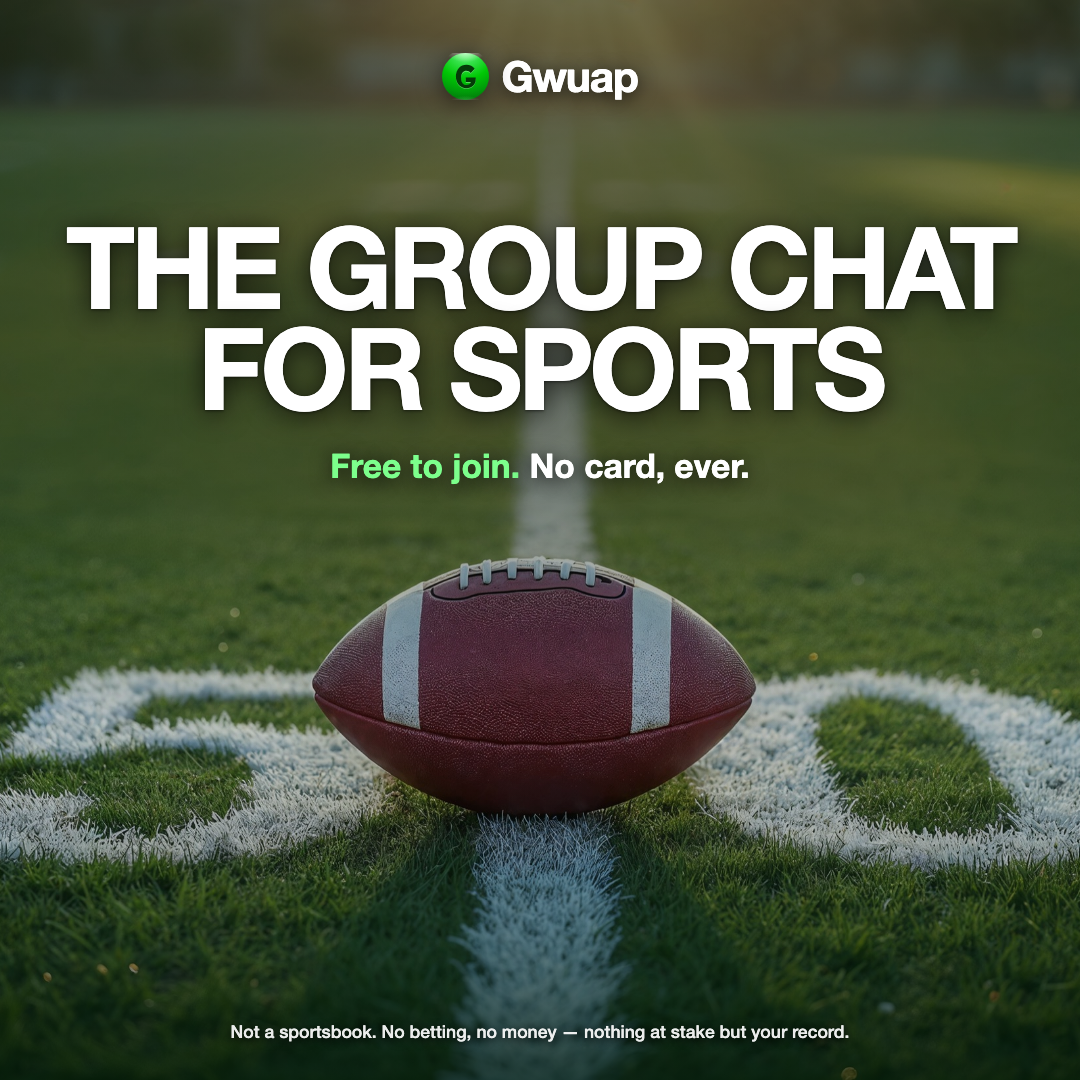
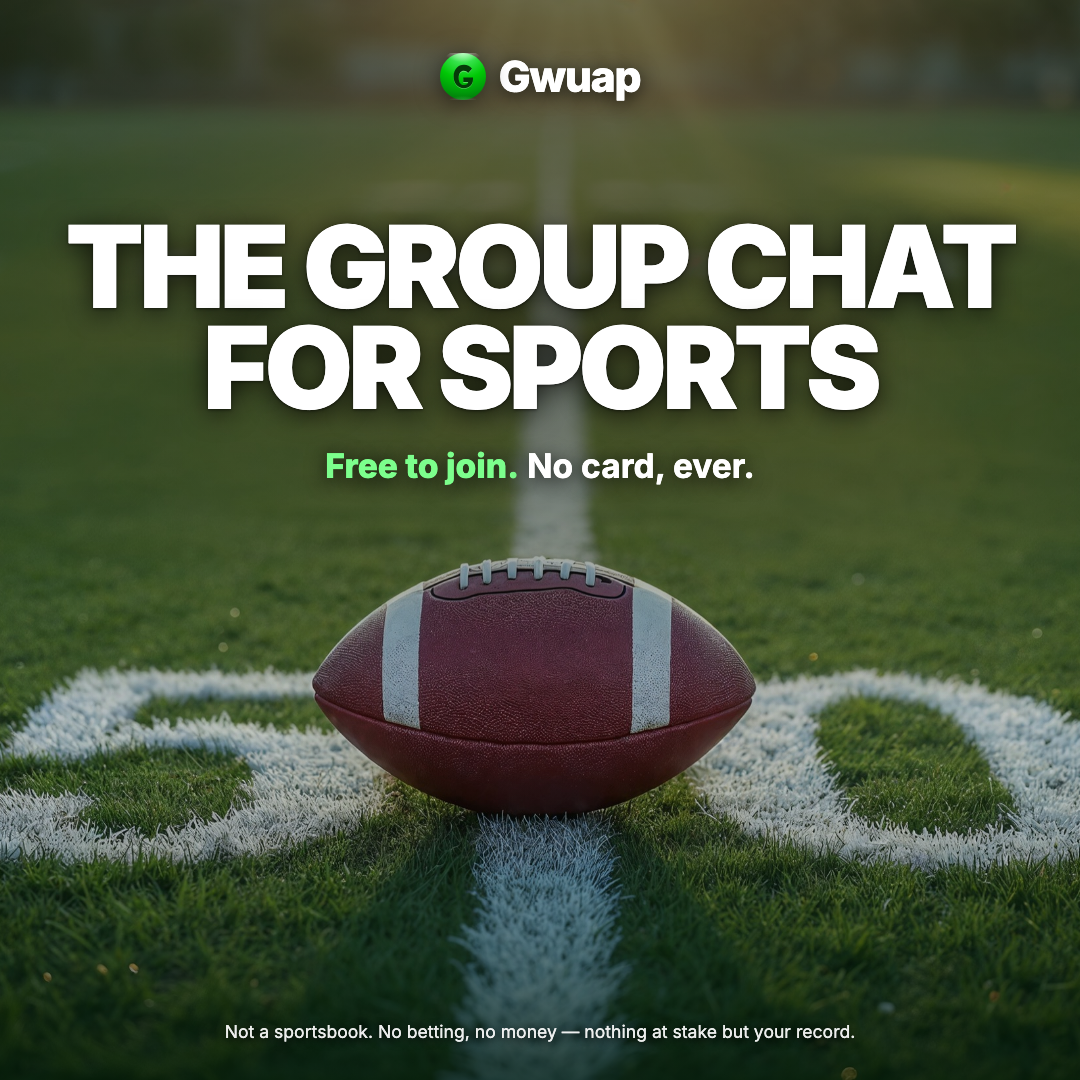
Make a creative that says what the button says
gw-newwave-square/wide: JOIN THE NEW WAVE over "the social media site
for sports fans" — the landing page's button and h1, in that order. The
running ad still said BUILD YOUR SQUAD, which is the exact ask the page
was rebuilt to stop making, so the click was being wasted twice: once on
the mismatch and once because the page no longer delivers it.

The founding line is deliberately fixed rather than live. The page
renders "192 of 200 founding places left" and counts down on its own;
the image says "First 200 accounts keep the founding badge", which is
true today and true at account 199. A number baked into a static image
is wrong the moment somebody signs up.

make.py now takes an optional note line per variant, so the same slot is
there for whatever the next one needs.

Not uploaded yet — and it should go in as a second ad rather than an
edit, so the approved one keeps running through review. Better still
after the widened targeting has had a few days, or the two changes land
together and neither is readable.

Claude-Session: https://claude.ai/code/session_01NdCCLMbPGMkRizCq46GUey

diff --git a/ads/field.tmpl.html b/ads/field.tmpl.html
@@ -41,6 +41,14 @@
     text-shadow:0 3px 20px rgba(0,0,0,.8); }
   .sub b { color:#7CFF8C; font-weight:800; }
 
+  /* The honest urgency line. A fixed fact — "the first 200" — and never
+     a live countdown, because a number baked into a static image goes
+     stale the moment somebody signs up, and a stale number in a paid ad
+     is exactly the overstatement this site doesn't do. */
+  .note { margin-top:calc(20px * {{SCALE}}); text-align:center; color:#DFF6E3;
+    font-size:calc(26px * {{SCALE}}); font-weight:600;
+    text-shadow:0 2px 14px rgba(0,0,0,.8); }
+
   .foot { position:absolute; left:0; right:0; bottom:calc(44px * {{SCALE}}); text-align:center;
     color:rgba(255,255,255,.92); font-size:calc(22px * {{SCALE}}); font-weight:500;
     line-height:1.45; text-shadow:0 2px 10px rgba(0,0,0,.9); padding:0 70px; }
@@ -53,6 +61,7 @@
   <div class="wrap">
     <div class="chalk">{{HEAD}}</div>
     <div class="sub">{{SUB}}</div>
+    {{NOTE}}
   </div>
   <div class="foot">
     Not a sportsbook. No betting, no money — nothing at stake but your record.

diff --git a/ads/make.py b/ads/make.py
@@ -14,27 +14,36 @@ HERE = pathlib.Path(__file__).parent
 TEMPLATE = (HERE / "field.tmpl.html").read_text()
 
 SUB = "<b>Free to join.</b> No card, ever."
+NOTE_FOUNDING = ('<div class="note">First <b>200</b> accounts keep the founding badge</div>')
 
 # Phase 2 — a basketball court, a rink, a pitch — is one row each, paired
 # with its own sport's ad group. Shipping football alone first is a budget
 # decision, not a design one: see CAMPAIGN-sports-social-sep.md.
 VARIANTS = [
-    # name, photo, w, h, headline, sub, scale, object-position, headline top
+    # name, photo, w, h, headline, sub, scale, object-position, headline top, note
     ("gw-field-square", "field.jpg", 1080, 1080, ["Build", "your squad"],
-     SUB, 1.00, "50% 58%", "20%"),
+     SUB, 1.00, "50% 58%", "20%", ""),
     ("gw-field-wide", "field.jpg", 1200, 628, ["Build your squad"],
-     SUB, 0.66, "50% 46%", "26%"),
+     SUB, 0.66, "50% 46%", "26%", ""),
     ("gw-meet-square", "field.jpg", 1080, 1080, ["The group chat", "for sports"],
-     SUB, 0.80, "50% 58%", "20%"),
+     SUB, 0.80, "50% 58%", "20%", ""),
+
+    # Matches the rebuilt landing page word for word: same headline as the
+    # button, same category line as the h1. Somebody clicking "join the new
+    # wave" should land on a page that says it back to them.
+    ("gw-newwave-square", "field.jpg", 1080, 1080, ["Join the", "new wave"],
+     "The social media site for sports fans", 1.00, "50% 58%", "18%", NOTE_FOUNDING),
+    ("gw-newwave-wide", "field.jpg", 1200, 628, ["Join the new wave"],
+     "The social media site for sports fans", 0.66, "50% 46%", "22%", NOTE_FOUNDING),
 ]
 
-for name, photo, w, h, lines, sub, scale, pos, top in VARIANTS:
+for name, photo, w, h, lines, sub, scale, pos, top, note in VARIANTS:
     html = (TEMPLATE
             .replace("{{W}}", str(w)).replace("{{H}}", str(h))
             .replace("{{SCALE}}", str(scale)).replace("{{POS}}", pos).replace("{{PHOTO}}", photo)
             .replace("{{TOP}}", top)
             .replace("{{HEAD}}", "".join(f"<em>{l}</em>" for l in lines))
-            .replace("{{SUB}}", sub))
+            .replace("{{SUB}}", sub).replace("{{NOTE}}", note))
     src = HERE / f".{name}.html"
     src.write_text(html)
     subprocess.run([CHROME, "--headless", "--disable-gpu", "--hide-scrollbars",

diff --git a/ads/CAMPAIGN-sports-social-sep.md b/ads/CAMPAIGN-sports-social-sep.md
@@ -4,9 +4,29 @@
 
 | File | Size | Where it runs |
 |---|---|---|
-| `gw-field-square.png` | 1080×1080 | primary — mobile feed |
-| `gw-field-wide.png` | 1200×628 | desktop feed |
-| `gw-meet-square.png` | 1080×1080 | second headline, same ad group, for a read on which line pulls |
+| **`gw-newwave-square.png`** | 1080×1080 | **current — matches the rebuilt landing page** |
+| **`gw-newwave-wide.png`** | 1200×628 | desktop |
+| `gw-field-square.png` | 1080×1080 | the running ad as of 13 Sep; superseded by the above |
+| `gw-field-wide.png` | 1200×628 | desktop version of the same |
+| `gw-meet-square.png` | 1080×1080 | "the group chat for sports"; unused |
+
+### Message match: the creative says what the button says
+
+The landing page was rebuilt twice on 13 Sep and now leads with
+**"Gwuap — the social media website for sports fans"** and a button
+reading **"Join the new wave"**. The running creative still said BUILD
+YOUR SQUAD, which is the ask the page was rebuilt to stop making.
+
+`gw-newwave-*` closes that. Headline is the button, sub-line is the
+page's h1, so somebody who clicks "join the new wave" lands on a page
+that says it back to them.
+
+**The founding line is a fixed fact, not a live count.** The page shows
+"192 of 200 founding places left" and counts down on its own; the
+creative says *"First 200 accounts keep the founding badge"*. A number
+baked into a static image is wrong the moment somebody signs up, and a
+stale number in a paid ad is exactly the overstatement this site does
+not do.
 
 Regenerate any of them with `python3 make.py`; the photograph is `field.jpg`.
 
@@ -23,22 +43,25 @@ should answer that question before anyone has to ask it.
 
 ## Copy
 
-**Primary (as written, tightened):**
+**Current, pairs with `gw-newwave-*` and matches the site's `SITE_PITCH`:**
+
+> Gwuap — the social media website for sports fans. Track your picks, chat with
+> sports fans, and start your own personal squad. Free to join, and the first
+> 200 accounts keep the founding badge.
+
+Same sentence as the meta description, the feed lead and the signup form, so
+the ad, the search result and the page all say one thing.
+
+**Superseded (kept for the record):**
 
 > Meet Gwuap — the new social network for sports fans. Build your own squad,
 > keep track of your picks, and talk every game while it's happening. Free to
 > join, no card, ever.
 
-Two changes from the original: *"see what's the hype"* → dropped, and *"social
-media"* → *"social network"*. The hype line is the one to reconsider on its own
-merits — there are 8 accounts on the site, and a Reddit audience is unusually
-quick to check a claim like that. "Free to join, no card, ever" is the thing we
-can say that nobody else in this category can.
-
-**Variant B (pairs with `gw-meet-square.png`):**
-
-> The group chat for sports, minus the sportsbook. Build a squad, post what you
-> think happens, and let the final score settle it. Free to join.
+That one led with building a squad, which PostHog showed was the thing losing
+readers. The hype line from the very first draft — *"see what's the hype"* — was
+already dropped for the same reason it would fail now: 8 accounts, and a Reddit
+audience unusually quick to check.
 
 **Destination:** `https://gwuap.co/squads?utm_source=reddit&utm_medium=cpc&utm_campaign=sports-social-sep&utm_content=field-square`
 

diff --git a/BUILD_GUIDE.md b/BUILD_GUIDE.md
@@ -3824,6 +3824,32 @@ style:
   only win-or-loss twelve lines above it would contradict our own number.
 - *"Signup"* → *"Sign up"*, as with the pitch line.
 
+### A creative that says what the button says (13 Sep 2026)
+
+`ads/gw-newwave-square.png` and `-wide.png`. Headline **JOIN THE NEW
+WAVE**, sub-line **the social media site for sports fans** — the page's
+button and the page's h1, in that order.
+
+The running ad still said BUILD YOUR SQUAD, which is precisely the ask
+the landing page was rebuilt to stop making. An ad promising one thing
+and a page offering another wastes the click twice: once on the mismatch,
+and once because the page can no longer deliver what was promised.
+
+**The founding line is fixed, not live.** The page renders "192 of 200
+founding places left" from a live count and falls on its own. The
+creative says *"First 200 accounts keep the founding badge"* — true
+today and true at account 199. A number baked into a static image is
+wrong the moment somebody signs up, and a wrong number in a paid ad is
+the overstatement this site does not do. Same reasoning as never putting
+a win rate on a creative.
+
+**Not yet uploaded.** Swapping the creative on the live ad means a new ad
+in the ad group, not an edit — which is the safer route anyway, since it
+leaves the approved ad running while the new one goes through review.
+Worth doing *after* the widened targeting has had a few days, so the
+creative change doesn't land on top of the targeting change and make both
+unreadable.
+
 ---
 
 
